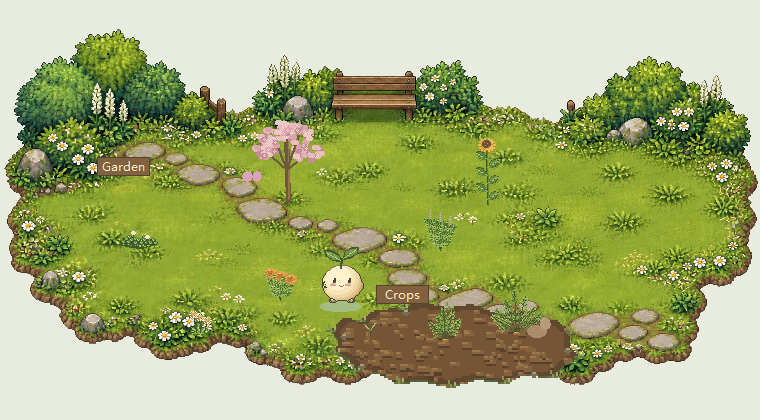
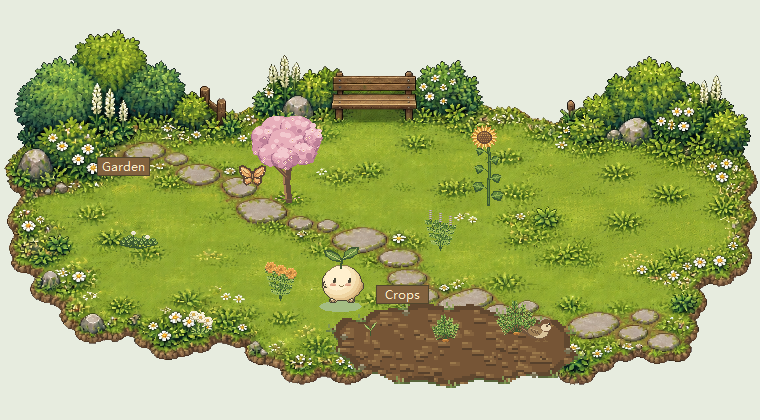
Refine plant proportions and visitor artwork for beta.4

diff --git a/plugins/codex-pet/scripts/plant_art.py b/plugins/codex-pet/scripts/plant_art.py
@@ -34,6 +34,8 @@ def draw_plant(species,stage):
     from pixel_art import Pixels
     p=Pixels(80,96);rng=random.Random(species);cx=40;ground=92
     dark='#3c5931';green='#63883c';light='#95b252';vein='#c0cd7b'
+    # Compressed garden scale: groundcover < rosettes < herbs < tall annuals < tree.
+    # Crop maturity is harvest foliage, not a second-year flowering stalk.
     scale=(0,.28,.52,.76,1)[stage]
     def stem(x,y,xx,yy,width=1):
         p.line(x,y,xx,yy,dark,width)
@@ -61,13 +63,15 @@ def draw_plant(species,stage):
                 a=round(x+dx*t);b=round(y+dy*t)
                 for s in (-1,1):p.line(a,b,round(a+nx*width*s+dx*.12),round(b+ny*width*s+dy*.12),color)
     def flower(x,y,r,color,center):
-        petals=14 if r>=5 else 12
-        for i in range(petals):
-            angle=i*math.tau/petals
-            xx=round(x+math.cos(angle)*r);yy=round(y+math.sin(angle)*r*.8)
-            p.line(x,y+1,xx,yy+1,'#a88b57' if color=='#f4eed6' else '#b98336',2 if r>4 else 1)
-            p.line(x,y,xx,yy,color,2 if r>4 else 1)
-        p.oval(x-2,y-2,5,4,center);p.rect(x-1,y-2,2,1,'#f0d284');p.rect(x+1,y+1,1,1,'#9b7139')
+        # Discrete tapered petals leave a readable rim around the flower centre.
+        for i in range(12):
+            angle=i*math.tau/12
+            dx=math.cos(angle);dy=math.sin(angle)*.85
+            xx=round(x+dx*r);yy=round(y+dy*r)
+            p.line(x,y,xx,yy+1,'#b88646' if color!='#f4eed6' else '#b8ac8a',2)
+            p.line(x,y,xx,yy,color,2)
+            p.rect(xx,yy,1,1,'#fff4d9' if color=='#f4eed6' else '#f8cf7b')
+        p.oval(x-1,y-1,3,3,center);p.rect(x-1,y-1,1,1,'#f2d47c')
     if stage==0:
         p.line(37,92,43,92,'#795a35');p.rect(38,91,1,1,'#a78652');p.rect(41,92,2,1,'#b09661');return p
     if stage==1 and species!='clover':
@@ -76,22 +80,42 @@ def draw_plant(species,stage):
         leaf(40,87,34,81,width,green);leaf(40,87,46,79,width,light)
         return p
     if species=='cherry':
-        height=round(76*scale);top=ground-height
-        p.line(cx,ground,cx-2,top+9,'#6d563b',max(2,round(5*scale)))
-        p.line(cx+2,ground-2,cx+1,top+16,'#98744c',2)
-        for i,(dx,dy) in enumerate(((-23,18),(21,21),(-13,5),(12,3),(0,-3))):
-            x=cx+round(dx*scale);y=top+round((dy+8)*scale)
-            p.line(cx,ground-round(height*.4),x,y,'#70583c',max(1,round(2*scale)))
-            radius=max(3,round(14*scale))
-            for _ in range(round(24*scale)+3):
-                a=rng.random()*math.tau;r=radius*math.sqrt(rng.random())
-                px=round(x+math.cos(a)*r);py=round(y+math.sin(a)*r*.64)
-                if stage==4:
-                    p.oval(px-3,py-2,7,5,rng.choice(('#c48e99','#dba4ad','#e8b9bd','#efc7c7')))
-                    if rng.random()<.6:
-                        p.rect(px-1,py,3,1,'#f9ded4');p.rect(px,py-1,1,3,'#f9ded4');p.rect(px,py,1,1,'#c6976e')
-                else:leaf(px,py,px+rng.choice((-4,4)),py-3,2,rng.choice((dark,green,light)))
-        p.line(37,92,44,92,'#766040');return p
+        # A spreading crown supported by low forks, with stable lobes at every age.
+        height=round(84*scale);top=ground-height
+        def point(dx,dy):return (cx+round(dx*scale),top+round(dy*scale))
+        def branch(points,color,width):
+            for a,b in zip(points,points[1:]):p.line(*point(*a),*point(*b),color,max(1,round(width*scale)))
+        branch([(0,84),(-2,64),(0,46),(-7,29)],'#644c3c',6)
+        branch([(-1,82),(-3,64),(-1,47),(-8,30)],'#ac8256',2)
+        for pts in [[(0,61),(-13,48),(-24,32)],[(-1,48),(15,37),(25,20)],[(0,43),(3,24),(-2,12)]]:
+            branch(pts,'#6d503e',3);branch(pts,'#97714c',1)
+        for dx,dy in [(-4,80),(-2,69),(0,59)]:
+            x,y=point(dx,dy);p.line(x,y,x+2,y,'#604a39')
+        lobes=[(-19,31,15,13),(18,28,16,14),(-7,15,19,14),
+               (11,13,17,12),(-25,22,10,11),(27,23,9,10),
+               (0,30,19,16),(-15,40,13,11),(17,39,13,11),(-1,44,14,10)]
+        palette=('#a66d86','#be8097','#d798ab','#e8afbb','#f3c9cf','#ffe3dd') if stage==4 else ('#425b36','#597441','#718c4c','#8ba45d','#a7b975','#c5cd91')
+        for i,(dx,dy,rx,ry) in enumerate(lobes):
+            x,y=point(dx,dy);rx=max(3,round(rx*scale));ry=max(3,round(ry*scale))
+            # Overlapping scallops establish connected masses before blossom texture.
+            p.oval(x-rx,y-ry,rx*2,ry*2,palette[0])
+            p.oval(x-rx+1,y-ry,rx*2-2,ry*2-3,palette[2])
+            p.oval(x-rx+2,y-ry,rx+max(2,rx//2),ry+max(2,ry//2),palette[3])
+            for j in range(22):
+                ang=rng.random()*math.tau;r=math.sqrt(rng.random())*.94
+                xx=round(x+math.cos(ang)*rx*r);yy=round(y+math.sin(ang)*ry*r)
+                tone=4 if yy<y-2 else 2 if xx<x else 1
+                w=max(2,round((3+rng.randrange(3))*scale))
+                p.oval(xx-w//2,yy-w//2,w+1,w,palette[tone])
+                if stage==4 and j%3==0:
+                    p.rect(xx,yy-1,1,3,palette[5]);p.rect(xx-1,yy,3,1,palette[4])
+                    p.rect(xx,yy,1,1,'#d7a275')
+                elif stage==3 and j%4==0:p.rect(xx,yy,2,2,'#d5a1aa')
+        p.line(35,92,46,92,'#766040')
+        if stage==4:
+            for x,y in ((29,91),(34,89),(48,91),(52,90)):
+                p.rect(x,y,2,1,'#e6b3be')
+        return p
     if species=='clover':
         for i in range(2+stage*3):
             x=40+rng.randrange(-14,15);y=90-rng.randrange(0,5)
@@ -107,7 +131,7 @@ def draw_plant(species,stage):
     if species in ('carrot','radish','lettuce','daisy'):
         if species=='carrot':
             # Carrot leaves are divided twice: main rachis, pinnae, tiny pinnules.
-            shoots=[(-20,24), (18,27), (-11,34), (9,38), (-2,43), (-24,18), (24,20)]
+            shoots=[(-15,18), (14,21), (-8,26), (7,29), (-2,33), (-18,14), (18,15)]
             count={2:3,3:5,4:7}[stage]
             for i,(dx,height) in enumerate(shoots[:count]):
                 endx=40+round(dx*scale);endy=91-round(height*scale)
@@ -154,24 +178,48 @@ def draw_plant(species,stage):
                     if stage==3:p.oval(x-1,y-2,3,4,light)
                     else:flower(x,y,4,'#f4eed6','#d5ad52')
         return p
-    height=round({'mint':32,'tomato':46,'sunflower':59,'calendula':28}[species]*scale)
+    height=round({'mint':32,'tomato':54,'sunflower':68,'calendula':34}[species]*scale)
     top=ground-height
     if species=='sunflower':
-        stem(40,92,39,top,2)
+        headx=37;heady=top+2
+        stem(40,92,41,top+18,3 if stage>=3 else 2)
+        stem(41,top+18,headx,heady,3 if stage>=3 else 2)
         for i in range(2+stage):
-            y=88-i*max(3,height//(3+stage));side=-1 if i%2 else 1
-            leaf(40,y,40+side*round(12*scale),y-7,4 if stage>2 else 2,green,True)
-        if stage==3:p.oval(36,top-3,8,7,green)
+            y=87-i*max(4,height//(3+stage));side=-1 if i%2 else 1
+            reach=round((16-i*.9)*scale);tipx=40+side*reach;tipy=y-4
+            stem(40,y,40+side*4,y-3)
+            # Broad heart-shaped leaves with pointed tips and branching veins.
+            base=40+side*3;w=max(3,round((7-i*.35)*scale))
+            p.polygon([(base,y-2),(base+side*3,y-w),(tipx-side*3,y-w),(tipx,tipy),(tipx-side*3,y+3),(base+side*4,y+2)],dark)
+            p.polygon([(base+side,y-2),(base+side*4,y-w+1),(tipx-side*3,y-w+1),(tipx-side,tipy),(tipx-side*4,y+1)],green)
+            p.line(base,y-2,tipx,tipy,light)
+            p.line(base+side*5,y-2,base+side*7,y-w+1,light)
+        if stage==3:
+            p.oval(headx-5,heady-6,11,12,dark)
+            p.oval(headx-4,heady-6,8,9,green)
+            for dx in (-3,0,3):p.line(headx,heady+4,headx+dx,heady-4,light)
         if stage==4:
-            flower(39,top,8,'#e8bd51','#765333');p.oval(35,top-4,9,8,'#735039')
-            for x,y in ((37,-2),(40,-1),(38,1),(41,2)):p.rect(x,top+y,1,1,'#b99653')
+            for i in range(18):
+                angle=i*math.tau/18;dx=math.cos(angle);dy=math.sin(angle)*.9
+                nx=-math.sin(angle);ny=math.cos(angle)
+                def at(r,w=0):return (round(headx+dx*r+nx*w),round(heady+dy*r+ny*w))
+                p.polygon([at(5,-2),at(10,-2),at(14),at(10,2),at(5,2)],'#bc7e32')
+                p.polygon([at(6,-1),at(10,-1),at(13),at(10,1),at(6,1)],'#edb94e')
+                p.line(*at(8),*at(12),'#ffe091')
+            p.oval(headx-7,heady-6,15,13,'#654735')
+            p.oval(headx-6,heady-5,12,10,'#94683b')
+            p.oval(headx-4,heady-3,9,8,'#765237')
+            for yy in range(-4,5,2):
+                for xx in range(-5,6,2):
+                    if xx*xx/36+yy*yy/25<1:
+                        p.rect(headx+xx+(yy%3==0),heady+yy,1,1,'#c99b56' if yy<0 else '#aa7b43')
         return p
     # Multiple unequal stems and pinnate/paired leaves replace the generic sprout.
     for j in range(1 if stage==1 else 3):
         tipx=40+(j-1)*round(10*scale);tipy=top+j*3
         stem(40,92,tipx,tipy,2 if species=='tomato' else 1)
-        for i in range(2+stage):
-            t=(i+1)/(3+stage);x=round(40+(tipx-40)*t);y=round(92+(tipy-92)*t)
+        for i in range(2+stage//2):
+            t=(i+1)/(3+stage//2);x=round(40+(tipx-40)*t);y=round(92+(tipy-92)*t)
             for side in (-1,1):
                 leaf(x,y,x+side*round((8 if species=='tomato' else 6)*scale+2),y-4,2 if species!='tomato' else 3,green if i%2 else light,True)
         if species=='mint' and stage==4:

diff --git a/plugins/codex-pet/scripts/visitor_art.py b/plugins/codex-pet/scripts/visitor_art.py
@@ -1,0 +1,49 @@
+"""Small native visitor sprites; wing poses share a fixed body anchor."""
+
+
+def butterfly_pixels(frame):
+    from pixel_art import Pixels
+    p = Pixels(32,28)
+    spread = (1.0,.88,.62,.30,.16,.30,.62,.88)[frame % 8]
+    ink = '#594333'
+    def wing(points, color, side):
+        p.polygon([(16 + round(x * spread) * side,y) for x,y in points],color)
+    for side in (-1,1):
+        # Smaller rounded hindwings sit behind the swept forewings.
+        wing([(0,13),(6,12),(10,16),(9,21),(6,24),(2,22)],ink,side)
+        wing([(1,14),(6,14),(8,17),(7,21),(5,22),(2,20)],'#cf8a54',side)
+        wing([(2,15),(5,15),(7,18),(5,20),(3,19)],'#efbd79',side)
+        wing([(0,12),(3,7),(9,3),(13,4),(14,8),(12,13),(7,17),(1,16)],ink,side)
+        wing([(1,12),(4,8),(9,5),(11,5),(12,8),(10,12),(6,15),(2,15)],'#d99557',side)
+        wing([(3,11),(7,7),(10,6),(10,9),(7,11)],'#f5d28e',side)
+        wing([(2,13),(7,11),(10,9),(8,13),(5,15)],'#edb76d',side)
+        if spread > .5:
+            for x,y in ((11,6),(12,9),(10,12),(7,15),(7,20)):
+                p.rect(16+round(x*spread)*side,y,1,1,'#fff0c4')
+            p.line(16+side*2,14,16+round(9*spread)*side,8,'#a46b43')
+    p.line(16,10,16,19,ink)
+    p.rect(16,12,1,4,'#bc9c6a')
+    p.rect(15,9,3,2,ink)
+    p.line(15,9,13,6,ink);p.line(17,9,19,6,ink)
+    return p
+
+
+def sparrow_pixels(frame):
+    from pixel_art import Pixels
+    p=Pixels(36,30)
+    dip=2 if frame%8 in (5,6) else 0
+    p.polygon([(10,18),(1,12),(3,20),(14,24)],'#70563e')
+    p.line(3,15,11,21,'#b19468')
+    p.oval(8,12,22,14,'#755a42')
+    p.oval(12,14,17,11,'#d8c39a')
+    p.oval(9,13,14,10,'#a18257')
+    for x,y in ((11,15),(14,16),(17,17)):
+        p.line(x,y,x+3,y+4,'#6c533c');p.rect(x,y,2,1,'#c3aa7c')
+    p.oval(21,6+dip,12,13,'#79573d')
+    p.oval(22,11+dip,10,7,'#e7d4b0')
+    p.rect(27,12+dip,2,2,'#66503b')
+    p.rect(29,10+dip,2,2,'#352f29');p.rect(29,10+dip,1,1,'#fff0cd')
+    p.polygon([(32,11+dip),(35,13+dip),(32,14+dip)],'#92723f')
+    p.line(19,25,18,28,'#876740');p.line(25,25,26,28,'#876740')
+    p.line(16,28,20,28,'#876740');p.line(24,28,28,28,'#876740')
+    return p

diff --git a/plugins/codex-pet/scripts/desktop_scene.py b/plugins/codex-pet/scripts/desktop_scene.py
@@ -93,12 +93,12 @@ class GardenScene(DesktopPet):
                 if p['species'] and SPOTS[p['plot']][1]>y:c.tag_raise('plant'+str(p['plot']))
             unlocked={v['id'] for v in self.scene['visitors'] if v['discovered']}
             if 'butterfly' in unlocked:
-                bx=250+math.sin(self.frame/75)*125;by=160+math.cos(self.frame/38)*16;wing=3+abs(math.sin(self.frame/3))*5
-                for dx in (-wing,wing):c.create_oval(bx+dx-wing,by-5,bx+dx+wing,by+5,fill='#d9a3b9',outline='',tags='visitors')
+                bx=250+math.sin(self.frame/75)*125
+                by=160+math.cos(self.frame/38)*16+math.sin(self.frame/9)*2
+                c.create_image(round(bx),round(by),image=self.pixel_art.butterfly(self.frame//2),tags='visitors')
             if 'sparrow' in unlocked:
                 sx=537+math.sin(self.frame/120)*18
-                c.create_oval(sx-10,325,sx+9,337,fill='#aa8c6b',outline='',tags='visitors')
-                c.create_oval(sx+3,319,sx+13,329,fill='#b69c78',outline='',tags='visitors')
+                c.create_image(round(sx),328,image=self.pixel_art.sparrow(self.frame//5),tags='visitors')
         hint=self.scene_error or self.time_error or (self.message if self.notice_until>time.monotonic() else '')
         if not hint and mode in ('dig','water','fertilize','harvest','archive'):
             hint={'dig':'正在播种','water':'正在浇水','fertilize':'正在施肥','harvest':'正在收获','archive':'正在收藏'}[mode]

diff --git a/plugins/codex-pet/scripts/pixel_art.py b/plugins/codex-pet/scripts/pixel_art.py
@@ -72,6 +72,22 @@ class PixelArt:
         if key not in self.cache:self.cache[key]=pet_pixels(mode,frame,theme,rank).photo(self.master,flip=not left)
         return self.cache[key]
 
+    def butterfly(self,frame):
+        from visitor_art import butterfly_pixels
+        pose=frame % 8
+        key=('butterfly',pose)
+        if key not in self.cache:
+            self.cache[key]=butterfly_pixels(pose).photo(self.master,scale=1)
+        return self.cache[key]
+
+    def sparrow(self,frame):
+        from visitor_art import sparrow_pixels
+        pose=frame % 8
+        key=('sparrow',pose)
+        if key not in self.cache:
+            self.cache[key]=sparrow_pixels(pose).photo(self.master,scale=1)
+        return self.cache[key]
+
     def _png(self,pack,filename,visual,flip=False):
         key=('png',str(pack['directory']),filename,visual['scale'],flip)
         if key not in self.cache:

diff --git a/RELEASE.md b/RELEASE.md
@@ -1,14 +1,14 @@
-# 0.1.0-beta.3 发布候选
+# 0.1.0-beta.4 发布候选
 
 面向 Windows 的小范围测试。包含桌面花园、十种植物、四阶段宠物形态、按时间成长、token 精力、自动照料、中英文信息卡与收藏轮换。无联机战斗、池塘或游戏服务器。
 
 ## 此次更新
 
-- 小芽改为更圆润的连续明暗，细化叶脉、脸颊和眨眼，保留四种成长形态、配色和劳动动作。
-- 十种植物的五阶段像素图细化叶脉、花瓣、果实和幼苗；胡萝卜采用分枝细裂叶，根部仅露出肩部。
-- 调整宠物和植物的场景显示比例，菜地改用深色土壤与短土块纹理。
-- README 附真实窗口截图。现有存档、植物身份、成长数值和玩法不变。
-- 59 项自动测试、内容渲染校验及真实窗口种植、收获、信息卡检查通过。
+- 校准植物相对比例，缩小胡萝卜叶丛，拉开草本、高秆植物与樱树的高度差。
+- 重画樱树的分枝、树冠、花簇和生长阶段，改善裸露长树干与稀疏冠幅。
+- 细化向日葵花盘、籽粒、花瓣和宽叶；整理雏菊、金盏花、薄荷与番茄的花叶层次。
+- 蝴蝶改为带翅纹的八帧像素动画；麻雀增加羽翼、尾羽、脸颊与低头姿态。
+- 保留已有存档、植物身份、成长数值与玩法。更新真实花园截图。
 
 ## 当前限制
 
@@ -24,7 +24,7 @@
 2. 本项目采用 MIT 许可证，允许商用、修改和再分发，须保留版权及许可声明；详见 LICENSE。后续引入第三方代码或素材时保留其适用的许可说明。
 3. 在干净 Windows 环境验证：环境检查、插件安装、钩子信任、新任务用量、窗口启动、自然成长、种植、退出重开和更新后存档保留。
 4. 只上传此目录内容，包含隐藏的 .agents 和 .codex-plugin 文件夹；不要上传整个开发工作区。
-5. 提交仓库，标记 v0.1.0-beta.3；分享真实仓库地址和本文件中的已知限制。
+5. 提交仓库，标记 v0.1.0-beta.4；分享真实仓库地址和本文件中的已知限制。
 
 ## 验证指令
 

diff --git a/README.zh-CN.md b/README.zh-CN.md
@@ -1,10 +1,10 @@
 # 小芽桌面花园
 
-![beta.3 实际桌面花园](preview.png)
+![beta.4 实际桌面花园](preview.png)
 
 一座陪你使用 Codex、随时间慢慢成长的像素桌面花园。
 
-**Windows 测试版 · 0.1.0-beta.3**
+**Windows 测试版 · 0.1.0-beta.4**
 
 [English](README.md) · **简体中文**
 

diff --git a/README.md b/README.md
@@ -1,10 +1,10 @@
 # Sprout Pet
 
-![Actual desktop garden in beta.3](preview.png)
+![Actual desktop garden in beta.4](preview.png)
 
 A quiet pixel garden that grows alongside your work in Codex.
 
-**Windows Beta · 0.1.0-beta.3**
+**Windows Beta · 0.1.0-beta.4**
 
 **English** · [简体中文](README.zh-CN.md)
 
